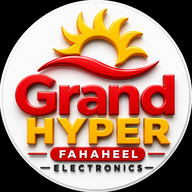
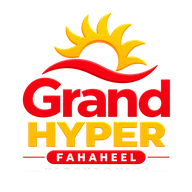
Fix APK installer handoff and transparent branding

diff --git a/FHL_NATIVE_APP/app/src/main/assets/public/index.html b/FHL_NATIVE_APP/app/src/main/assets/public/index.html
@@ -8920,7 +8920,6 @@ function renderBrands(){
     html += '<div class="btn-row" style="margin-bottom:14px;">';
     html += '<button class="btn" onclick="triggerImportExcel()">📥 Import Excel (update stock / add products)</button>';
     html += '</div>';
-    html += '<div class="backup-note">Import an Excel file with a Barcode column (plus optional Description, Brand, Stock Qty, Party, Party Name). Matching barcodes update stock; new barcodes are added as new products. Imports are saved to this device and synced to the cloud automatically.</div>';
   }
 
   html += '<div class="search-wrap" style="position:relative;"><input type="text" id="brandQueryInput" value="' + esc(state.brandQuery) + '" oninput="setBrandQuery(this.value)" placeholder="Search brand, barcode, model / product name..." />';

diff --git a/FHL_NATIVE_APP/app/src/main/java/com/abdulasif/pdtstockscanner/bridge/UpdateBridge.java b/FHL_NATIVE_APP/app/src/main/java/com/abdulasif/pdtstockscanner/bridge/UpdateBridge.java
@@ -19,6 +19,7 @@ import androidx.core.content.FileProvider;
 import com.abdulasif.pdtstockscanner.MainActivity;
 
 import java.io.File;
+import java.util.concurrent.atomic.AtomicBoolean;
 
 /**
  * UpdateBridge - JavaScript Interface for handling app updates via DownloadManager
@@ -91,12 +92,15 @@ public class UpdateBridge {
             IntentFilter filter = new IntentFilter(DownloadManager.ACTION_DOWNLOAD_COMPLETE);
             BroadcastReceiverCompat receiver = new BroadcastReceiverCompat(dm, dest);
             if (Build.VERSION.SDK_INT >= Build.VERSION_CODES.TIRAMISU) {
-                activity.registerReceiver(receiver, filter, Context.RECEIVER_NOT_EXPORTED);
+                activity.registerReceiver(receiver, filter, Context.RECEIVER_EXPORTED);
             } else {
                 activity.registerReceiver(receiver, filter);
             }
             long downloadId = dm.enqueue(request);
             receiver.setExpectedId(downloadId);
+            // Some Android builds suppress the completion broadcast for a dynamically
+            // registered receiver. Poll briefly as a deterministic fallback.
+            receiver.pollStatus(downloadId, 0);
 
         } catch (Exception e) {
             Log.e(TAG, "openUpdate error", e);
@@ -110,6 +114,7 @@ public class UpdateBridge {
         private final DownloadManager dm;
         private final File dest;
         private volatile long expectedId = -1;
+        private final AtomicBoolean handled = new AtomicBoolean(false);
 
         BroadcastReceiverCompat(DownloadManager dm, File dest) {
             this.dm = dm;
@@ -120,46 +125,67 @@ public class UpdateBridge {
             this.expectedId = expectedId;
         }
 
-        @Override
-        public void onReceive(Context context, Intent intent) {
-            long id = intent.getLongExtra("extra_download_id", -1);
-            if (id != expectedId) return;
+        void pollStatus(final long id, final int attempt) {
+            if (handled.get() || attempt > 30) return;
+            new Handler(Looper.getMainLooper()).postDelayed(new Runnable() {
+                @Override public void run() {
+                    if (handled.get()) return;
+                    DownloadManager.Query q = new DownloadManager.Query().setFilterById(new long[]{id});
+                    android.database.Cursor c = dm.query(q);
+                    int status = -1;
+                    if (c != null) {
+                        if (c.moveToFirst()) {
+                            int idx = c.getColumnIndex(DownloadManager.COLUMN_STATUS);
+                            if (idx >= 0) status = c.getInt(idx);
+                        }
+                        c.close();
+                    }
+                    if (status == DownloadManager.STATUS_SUCCESSFUL || status == DownloadManager.STATUS_FAILED) {
+                        handleCompletion(id);
+                    } else {
+                        pollStatus(id, attempt + 1);
+                    }
+                }
+            }, 1000L);
+        }
 
-            try {
-                context.unregisterReceiver(this);
-            } catch (Exception e) {
-                // ignore
-            }
+        private void handleCompletion(long id) {
+            if (!handled.compareAndSet(false, true)) return;
+            expectedId = id;
+            try { activity.unregisterReceiver(this); } catch (Exception ignored) {}
+            processResult(id);
+        }
 
+        private void processResult(long id) {
             DownloadManager.Query query = new DownloadManager.Query();
-            query.setFilterById(new long[]{expectedId});
+            query.setFilterById(new long[]{id});
             android.database.Cursor cursor = dm.query(query);
-            int status = 16; // STATUS_RUNNING
-
+            int status = DownloadManager.STATUS_FAILED;
             if (cursor != null) {
                 if (cursor.moveToFirst()) {
-                    int statusIdx = cursor.getColumnIndex("status");
-                    if (statusIdx >= 0) {
-                        status = cursor.getInt(statusIdx);
-                    }
+                    int statusIdx = cursor.getColumnIndex(DownloadManager.COLUMN_STATUS);
+                    if (statusIdx >= 0) status = cursor.getInt(statusIdx);
                 }
                 cursor.close();
             }
-
             if (status == DownloadManager.STATUS_SUCCESSFUL) {
                 launchInstaller(dest);
-                Toast.makeText(context, "Download complete. Opening installer...", Toast.LENGTH_LONG).show();
+                Toast.makeText(activity, "Download complete. Opening installer...", Toast.LENGTH_LONG).show();
             } else {
-                Toast.makeText(context, "Download failed, opening browser...", Toast.LENGTH_LONG).show();
-                // Fallback: open in browser
-                try {
-                    Intent browserIntent = new Intent(Intent.ACTION_VIEW, Uri.parse(dest.getAbsolutePath()));
-                    browserIntent.setFlags(Intent.FLAG_ACTIVITY_NEW_TASK);
-                    context.startActivity(browserIntent);
-                } catch (Exception e) {
-                    Log.e(TAG, "fallback failed", e);
-                }
+                Toast.makeText(activity, "Download failed. Please retry.", Toast.LENGTH_LONG).show();
             }
+        }
+
+        @Override
+        public void onReceive(Context context, Intent intent) {
+            long id = intent.getLongExtra("extra_download_id", -1);
+            if (expectedId < 0) {
+                expectedId = id;
+            } else if (id != expectedId) {
+                return;
+            }
+
+            handleCompletion(id);
         }
     }
 
@@ -175,28 +201,43 @@ public class UpdateBridge {
                         Log.e(TAG, "Downloaded APK is missing or empty: " + file);
                         return;
                     }
-                    if (android.os.Build.VERSION.SDK_INT >= android.os.Build.VERSION_CODES.O &&
-                            !activity.getPackageManager().canRequestPackageInstalls()) {
-                        Intent permissionIntent = new Intent(
-                                android.provider.Settings.ACTION_MANAGE_UNKNOWN_APP_SOURCES,
-                                Uri.parse("package:" + activity.getPackageName())
-                        );
-                        permissionIntent.addFlags(Intent.FLAG_ACTIVITY_NEW_TASK);
-                        activity.startActivity(permissionIntent);
-                        return;
-                    }
                     Uri contentUri = FileProvider.getUriForFile(
                             activity,
                             "com.abdulasif.pdtstockscanner.fixed.fileprovider",
                             file
                     );
-                    Intent installIntent = new Intent(Intent.ACTION_VIEW);
+                    Intent installIntent = new Intent(Intent.ACTION_INSTALL_PACKAGE);
                     installIntent.setDataAndType(contentUri, "application/vnd.android.package-archive");
                     installIntent.putExtra(Intent.EXTRA_NOT_UNKNOWN_SOURCE, true);
+                    installIntent.putExtra(Intent.EXTRA_RETURN_RESULT, false);
                     installIntent.addFlags(Intent.FLAG_GRANT_READ_URI_PERMISSION | Intent.FLAG_GRANT_WRITE_URI_PERMISSION);
                     installIntent.addFlags(Intent.FLAG_ACTIVITY_NEW_TASK | Intent.FLAG_ACTIVITY_CLEAR_TOP);
                     installIntent.setClipData(ClipData.newRawUri("FHL_ELECTRONICS_APK", contentUri));
-                    activity.startActivity(installIntent);
+                    try {
+                        activity.startActivity(installIntent);
+                    } catch (Exception primaryFailure) {
+                        Log.w(TAG, "ACTION_INSTALL_PACKAGE unavailable; retrying ACTION_VIEW", primaryFailure);
+                        Intent viewIntent = new Intent(Intent.ACTION_VIEW);
+                        viewIntent.setDataAndType(contentUri, "application/vnd.android.package-archive");
+                        viewIntent.addFlags(Intent.FLAG_GRANT_READ_URI_PERMISSION | Intent.FLAG_GRANT_WRITE_URI_PERMISSION | Intent.FLAG_ACTIVITY_NEW_TASK | Intent.FLAG_ACTIVITY_CLEAR_TOP);
+                        viewIntent.setClipData(ClipData.newRawUri("FHL_ELECTRONICS_APK", contentUri));
+                        try {
+                            activity.startActivity(viewIntent);
+                        } catch (Exception secondaryFailure) {
+                            Log.e(TAG, "Both APK installer intents failed", secondaryFailure);
+                            if (android.os.Build.VERSION.SDK_INT >= android.os.Build.VERSION_CODES.O &&
+                                    !activity.getPackageManager().canRequestPackageInstalls()) {
+                                Intent permissionIntent = new Intent(
+                                        android.provider.Settings.ACTION_MANAGE_UNKNOWN_APP_SOURCES,
+                                        Uri.parse("package:" + activity.getPackageName())
+                                );
+                                permissionIntent.addFlags(Intent.FLAG_ACTIVITY_NEW_TASK);
+                                activity.startActivity(permissionIntent);
+                            } else {
+                                throw secondaryFailure;
+                            }
+                        }
+                    }
                 } catch (Exception e) {
                     Log.e(TAG, "install intent failed", e);
                     Toast.makeText(activity, "Could not open APK installer. Open the downloaded APK from Downloads.", Toast.LENGTH_LONG).show();

diff --git a/FHL_NATIVE_APP/app/src/main/java/com/abdulasif/pdtstockscanner/bridge/AndroidNativeBridge.java b/FHL_NATIVE_APP/app/src/main/java/com/abdulasif/pdtstockscanner/bridge/AndroidNativeBridge.java
@@ -137,13 +137,22 @@ public class AndroidNativeBridge {
                             "com.abdulasif.pdtstockscanner.fixed.fileprovider",
                             file
                     );
-                    Intent installIntent = new Intent(Intent.ACTION_VIEW);
+                    Intent installIntent = new Intent(Intent.ACTION_INSTALL_PACKAGE);
                     installIntent.setDataAndType(contentUri, "application/vnd.android.package-archive");
                     installIntent.putExtra(Intent.EXTRA_NOT_UNKNOWN_SOURCE, true);
-                    installIntent.addFlags(Intent.FLAG_GRANT_READ_URI_PERMISSION | Intent.FLAG_GRANT_WRITE_URI_PERMISSION);
-                    installIntent.addFlags(Intent.FLAG_ACTIVITY_NEW_TASK | Intent.FLAG_ACTIVITY_CLEAR_TOP);
+                    installIntent.putExtra(Intent.EXTRA_RETURN_RESULT, false);
+                    installIntent.addFlags(Intent.FLAG_GRANT_READ_URI_PERMISSION | Intent.FLAG_GRANT_WRITE_URI_PERMISSION | Intent.FLAG_ACTIVITY_NEW_TASK | Intent.FLAG_ACTIVITY_CLEAR_TOP);
                     installIntent.setClipData(ClipData.newRawUri("FHL_ELECTRONICS_APK", contentUri));
-                    activity.startActivity(installIntent);
+                    try {
+                        activity.startActivity(installIntent);
+                    } catch (Exception primaryFailure) {
+                        Log.w("AndroidNativeBridge", "ACTION_INSTALL_PACKAGE unavailable; retrying ACTION_VIEW", primaryFailure);
+                        Intent viewIntent = new Intent(Intent.ACTION_VIEW);
+                        viewIntent.setDataAndType(contentUri, "application/vnd.android.package-archive");
+                        viewIntent.addFlags(Intent.FLAG_GRANT_READ_URI_PERMISSION | Intent.FLAG_GRANT_WRITE_URI_PERMISSION | Intent.FLAG_ACTIVITY_NEW_TASK | Intent.FLAG_ACTIVITY_CLEAR_TOP);
+                        viewIntent.setClipData(ClipData.newRawUri("FHL_ELECTRONICS_APK", contentUri));
+                        activity.startActivity(viewIntent);
+                    }
                 } catch (Exception e) {
                     e.printStackTrace();
                 }
